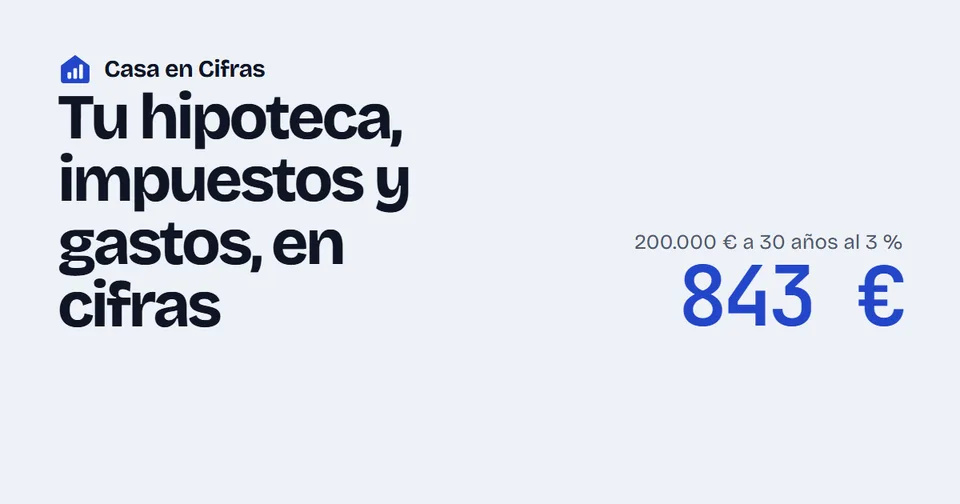
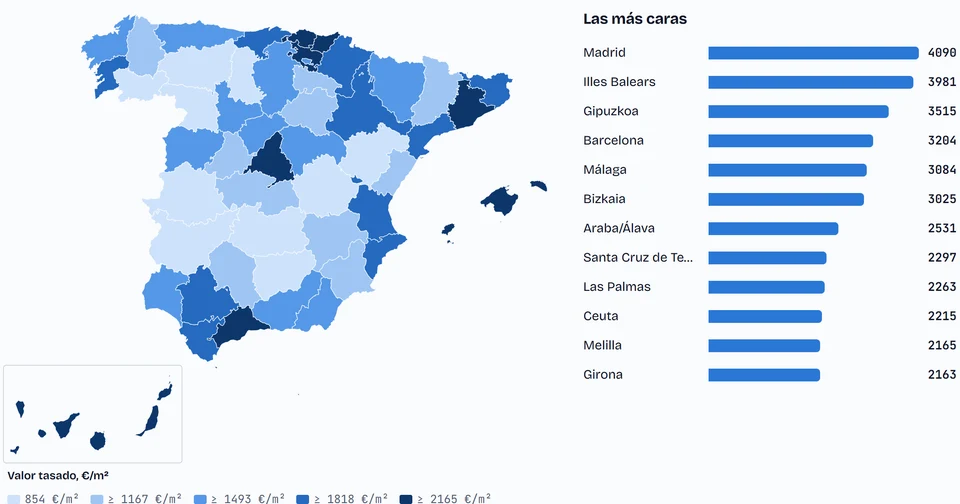
content: data redesign of Mapa VPO (lead card), Casa en Cifras and Nómina Clara with product shots; Data visualization and Open data skills

diff --git a/src/content.js b/src/content.js
@@ -152,35 +152,35 @@ export const apps = [
   },
 ];
 
-// Ad-funded web tools (static sites, shared Python kit). Images are each site's own Open Graph card.
+// Ad-funded web tools (static sites, shared Python kit). Images are cropped product shots of each site's data views.
 const web = (slug) => `${import.meta.env.BASE_URL}web/${slug}.webp`;
 export const websites = [
   {
-    slug: "nomina-clara",
-    name: "Nómina Clara",
-    url: "https://nomina.elpagesweb.com",
-    tagline: "Spanish net salary and severance calculators built on the tax agency's 2026 algorithm and the Workers' Statute.",
-    facts: ["Every step of the calculation shown", "Tested on the official example"],
-    stack: ["JavaScript", "GSAP", "Python", "SEO"],
-    image: web("nomina-clara"),
+    slug: "mapa-vpo",
+    name: "Mapa VPO",
+    url: "https://vpo.elpagesweb.com",
+    tagline: "Protected housing in Spain, region by region: how many homes are started and finished since 1991, what they are appraised at, where they sell and where to apply.",
+    facts: ["Ministry of Housing bulletin and INE API, refreshed by one script", "Hand-built SVG map with a year slider, 19 region pages, a price calculator", "Municipality search, CSV downloads and Dataset structured data", "Funnels Catalan users to Alertas VPO"],
+    stack: ["JavaScript", "Data visualization", "Open data", "Python", "SEO"],
+    image: web("mapa-vpo"),
   },
   {
     slug: "casa-en-cifras",
     name: "Casa en Cifras",
     url: "https://casa.elpagesweb.com",
-    tagline: "Mortgage, purchase taxes for all 17 regions and how much home you can afford.",
-    facts: ["Animated amortization chart", "Regional tax scales"],
-    stack: ["JavaScript", "GSAP", "Python", "SEO"],
+    tagline: "Mortgage, purchase taxes and what homes really cost: price per square metre in all 52 provinces, the INE price index and the mortgages signed.",
+    facts: ["Province price map from official appraisals", "Tax map that recolours as the price changes", "Animated amortization chart", "Regional tax scales, tested engine"],
+    stack: ["JavaScript", "Data visualization", "Open data", "GSAP", "Python", "SEO"],
     image: web("casa-en-cifras"),
   },
   {
-    slug: "mapa-vpo",
-    name: "Mapa VPO",
-    url: "https://vpo.elpagesweb.com",
-    tagline: "Where to apply for protected housing in every Spanish region, on one tile map.",
-    facts: ["Official registries, links checked", "Funnels Catalan users to Alertas VPO"],
-    stack: ["JavaScript", "GSAP", "Python", "SEO"],
-    image: web("mapa-vpo"),
+    slug: "nomina-clara",
+    name: "Nómina Clara",
+    url: "https://nomina.elpagesweb.com",
+    tagline: "Spanish net salary and severance calculators on the tax agency's 2026 algorithm, and where your salary stands against the INE's percentiles in every region.",
+    facts: ["Every step of the calculation shown", "Tested on the official example", "Effective tax curve drawn by the same engine", "Salary map and percentile ladder from the INE API"],
+    stack: ["JavaScript", "Data visualization", "Open data", "Python", "SEO"],
+    image: web("nomina-clara"),
   },
   {
     slug: "vales-imprimibles",
@@ -347,7 +347,7 @@ export const skills = [
   { group: "Mobile", items: ["Flutter", "Dart", "Firebase", "Encryption", "WorkManager"] },
   { group: "AI", items: ["AI", "MCP"] },
   { group: "Cloud & DevOps", items: ["AWS", "Azure", "Cloudflare Workers", "Terraform", "IAM", "Docker", "CI/CD", "Oracle Cloud", "Kubernetes", "Linux"] },
-  { group: "Backend & Web", items: ["Python", "Java", "FastAPI", "PostgreSQL", "SQL", "React", "GSAP", "three.js", "Telegram", "Web scraping", "SEO"] },
+  { group: "Backend & Web", items: ["Python", "Java", "FastAPI", "PostgreSQL", "SQL", "React", "GSAP", "three.js", "Telegram", "Web scraping", "SEO", "Data visualization", "Open data"] },
   { group: "Other languages", items: ["JavaScript", "C++"] },
 ];
 

diff --git a/src/ui/Websites.jsx b/src/ui/Websites.jsx
@@ -11,8 +11,9 @@ export default function Websites() {
         <div className="section-head">
           <RevealText className="h2" text="Web tools for everyday questions in Spain." />
           <p className="lede">
-            Static sites built from one shared Python kit. Calculators and PDF generation run in the browser, so nothing typed
-            leaves the device. Consent, legal pages and SEO come built in.
+            Static sites built from one shared Python kit. Official open data from the Ministry of Housing and the INE becomes
+            hand-built maps and charts; calculators and PDF generation run in the browser, so nothing typed leaves the device.
+            Consent, legal pages and SEO come built in.
           </p>
         </div>
         <div className="sites">
